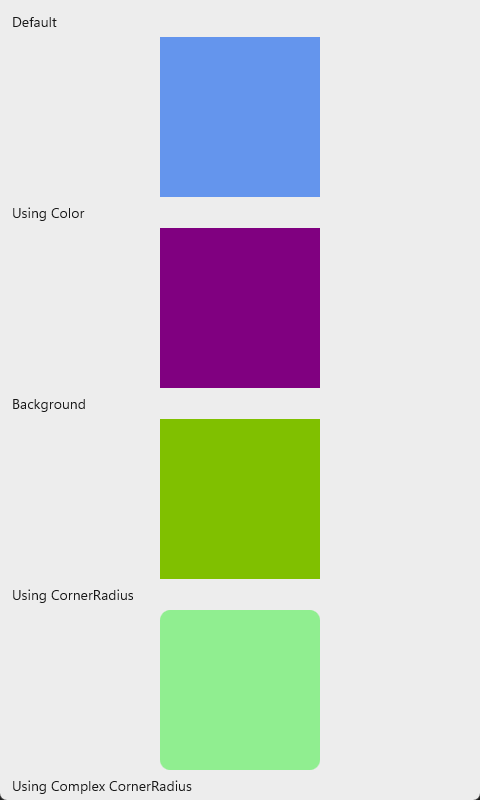
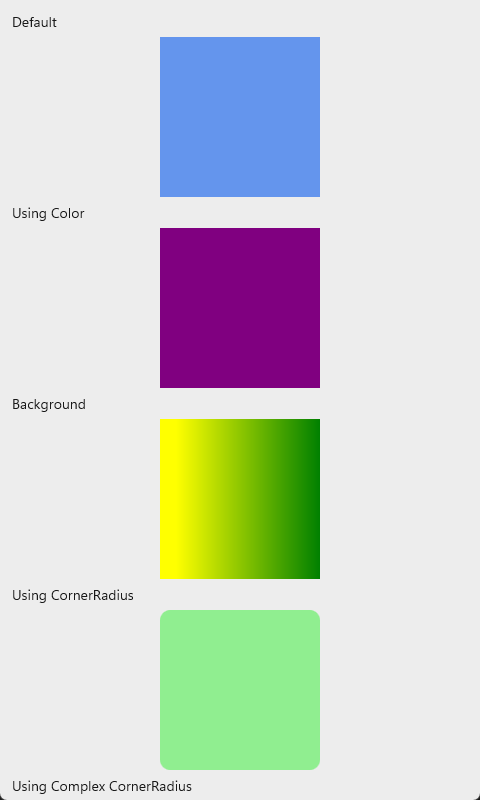
feat(windows): Paint.ToPlatform gradient bridge — linear/radial gradients render natively
windows_native.hpp gains to_paint_brush (PaintExtensions.Windows.cs): solid →
SolidColorBrush, linear/radial gradient paints → the matching XAML gradient
brushes with the full stop list (relative coordinates match 1:1); image/pattern
paints keep the resolved-color solid fallback. The shapes TU routes fill,
stroke, and container background through it — box_view's gradient Background
now matches the MAUI reference exactly (was the first-stop solid stand-in).

Changed region(s): [[0.3125, 0.5, 0.5, 0.75], [0.5312, 0.5, 0.6875, 0.75]]

diff --git a/port/cpp/src/platform/windows/windows_native.hpp b/port/cpp/src/platform/windows/windows_native.hpp
@@ -22,6 +22,7 @@
 #include <winrt/Microsoft.UI.Xaml.Controls.h>
 #include <winrt/Microsoft.UI.Xaml.Media.h>
 #include <winrt/Microsoft.UI.Xaml.h>
+#include <winrt/Windows.Foundation.Collections.h> // GradientStops().Append (IVector)
 #include <winrt/Windows.Foundation.h>
 #include <winrt/Windows.UI.h>
 #include <winrt/base.h>
@@ -29,6 +30,8 @@
 #include "maui/core/thickness.hpp"
 #include "maui/core/visibility.hpp"
 #include "maui/graphics/color.hpp"
+#include "maui/graphics/linear_gradient_paint.hpp"
+#include "maui/graphics/radial_gradient_paint.hpp"
 #include "maui/graphics/rect.hpp"
 #include "maui/graphics/size.hpp"
 
@@ -101,6 +104,57 @@ namespace maui::platform::win
     {
         return winrt::Microsoft::UI::Xaml::Thickness{
             .Left = value.left, .Top = value.top, .Right = value.right, .Bottom = value.bottom};
+    }
+
+    // Paint.ToPlatform (PaintExtensions.Windows.cs): the full paint → WinUI Brush bridge. Solid →
+    // SolidColorBrush; linear/radial gradients → the matching XAML gradient brush with the stop list
+    // (start/end + center/radius are RELATIVE coordinates on both sides — WinUI's default
+    // RelativeToBoundingBox MappingMode matches the port's 0..1 points 1:1). Anything else (image /
+    // pattern paints) falls back to the resolved background_color() solid — the remaining honest
+    // deferral. Null paint → null brush (callers ClearValue / keep the theme default).
+    [[nodiscard]] inline winrt::Microsoft::UI::Xaml::Media::Brush to_paint_brush(
+        const maui::graphics::paint* value)
+    {
+        namespace muxmedia = winrt::Microsoft::UI::Xaml::Media;
+        if (value == nullptr)
+        {
+            return nullptr;
+        }
+        if (const auto* linear = dynamic_cast<const maui::graphics::linear_gradient_paint*>(value))
+        {
+            muxmedia::LinearGradientBrush brush;
+            brush.StartPoint({static_cast<float>(linear->start_point().x),
+                              static_cast<float>(linear->start_point().y)});
+            brush.EndPoint({static_cast<float>(linear->end_point().x),
+                            static_cast<float>(linear->end_point().y)});
+            for (const auto& stop : linear->gradient_stops())
+            {
+                muxmedia::GradientStop native_stop;
+                native_stop.Color(to_ui_color(stop.color()));
+                native_stop.Offset(static_cast<double>(stop.offset()));
+                brush.GradientStops().Append(native_stop);
+            }
+            return brush;
+        }
+        if (const auto* radial = dynamic_cast<const maui::graphics::radial_gradient_paint*>(value))
+        {
+            muxmedia::RadialGradientBrush brush;
+            const auto center = winrt::Windows::Foundation::Point{static_cast<float>(radial->center().x),
+                                                                  static_cast<float>(radial->center().y)};
+            brush.Center(center);
+            brush.GradientOrigin(center);
+            brush.RadiusX(radial->radius());
+            brush.RadiusY(radial->radius());
+            for (const auto& stop : radial->gradient_stops())
+            {
+                muxmedia::GradientStop native_stop;
+                native_stop.Color(to_ui_color(stop.color()));
+                native_stop.Offset(static_cast<double>(stop.offset()));
+                brush.GradientStops().Append(native_stop);
+            }
+            return brush;
+        }
+        return to_brush(value->background_color()); // solid + the image/pattern fallback projection
     }
 
     [[nodiscard]] inline winrt::hstring to_hstring_utf8(std::string_view value)

diff --git a/port/cpp/src/platform/windows/shape_view_handler.cpp b/port/cpp/src/platform/windows/shape_view_handler.cpp
@@ -301,9 +301,9 @@ namespace
             element.Fill(wnative::to_brush(solid->color()));
             return;
         }
-        // deferred: gradient / image / pattern fills as real XAML brushes (Paint.ToPlatform) — the
-        // resolved background color (the first-gradient-stop projection) stands in (header note).
-        element.Fill(wnative::to_brush(fill->background_color()));
+        // Paint.ToPlatform: linear/radial gradients map to the real XAML gradient brushes (relative
+        // stop coordinates match 1:1); image/pattern paints keep the resolved-color solid fallback.
+        element.Fill(wnative::to_paint_brush(fill));
     }
 
     // ShapeDrawable.DrawStrokePath: no stroke paint or a non-positive thickness draws no outline
@@ -316,9 +316,9 @@ namespace
         {
             return;
         }
-        // C# stroke.ToColor() — the solid/first-gradient-stop projection (paint::background_color(),
-        // the border_stroke_spec precedent). deferred: gradient strokes as real brushes.
-        element.Stroke(wnative::to_brush(stroke->background_color()));
+        // Paint.ToPlatform for the stroke: gradient strokes map to the real XAML gradient brushes;
+        // image/pattern paints keep the C# stroke.ToColor() solid projection (background_color()).
+        element.Stroke(wnative::to_paint_brush(stroke));
         element.StrokeThickness(view.stroke_thickness());
         // StrokeDashPattern → StrokeDashArray: both speak stroke-thickness multiples (the D2D
         // dash-style unit XAML Shapes and Win2D's CanvasStrokeStyle share), so the values and the
@@ -530,8 +530,9 @@ namespace maui::core
             host.Background(wnative::to_brush(solid->color()));
             return;
         }
-        // deferred: gradient / image-source paints (Paint.ToPlatform) — the base mirror above keeps
-        // the borrow observable.
+        // Paint.ToPlatform: gradient container backgrounds map to the real XAML gradient brushes;
+        // image-source paints keep the resolved-color fallback inside to_paint_brush.
+        host.Background(wnative::to_paint_brush(value));
     }
 
     std::unique_ptr<shape_view_platform> shape_view_handler::create_platform_view()
